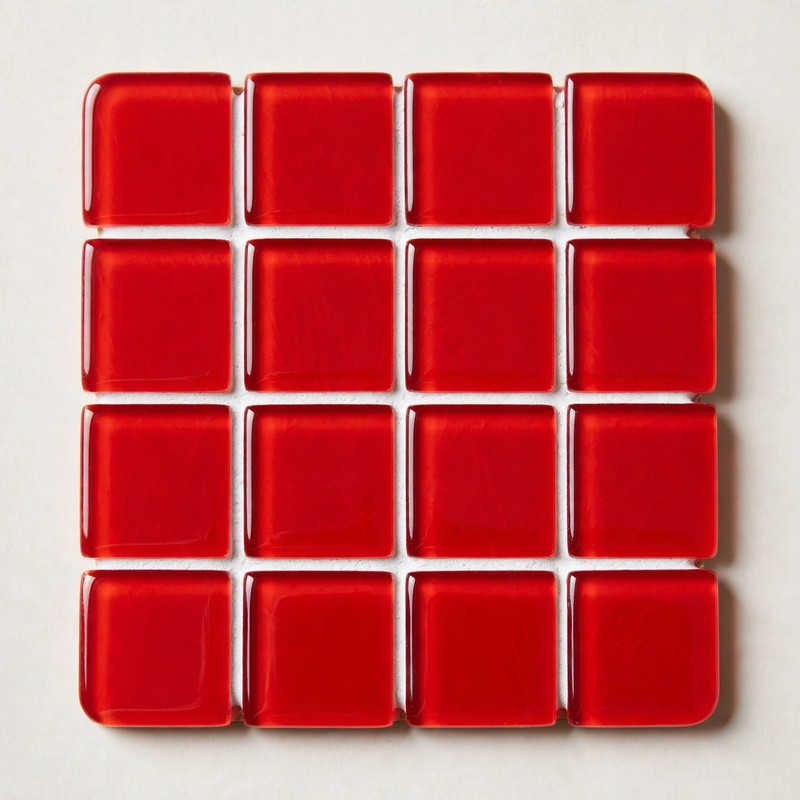
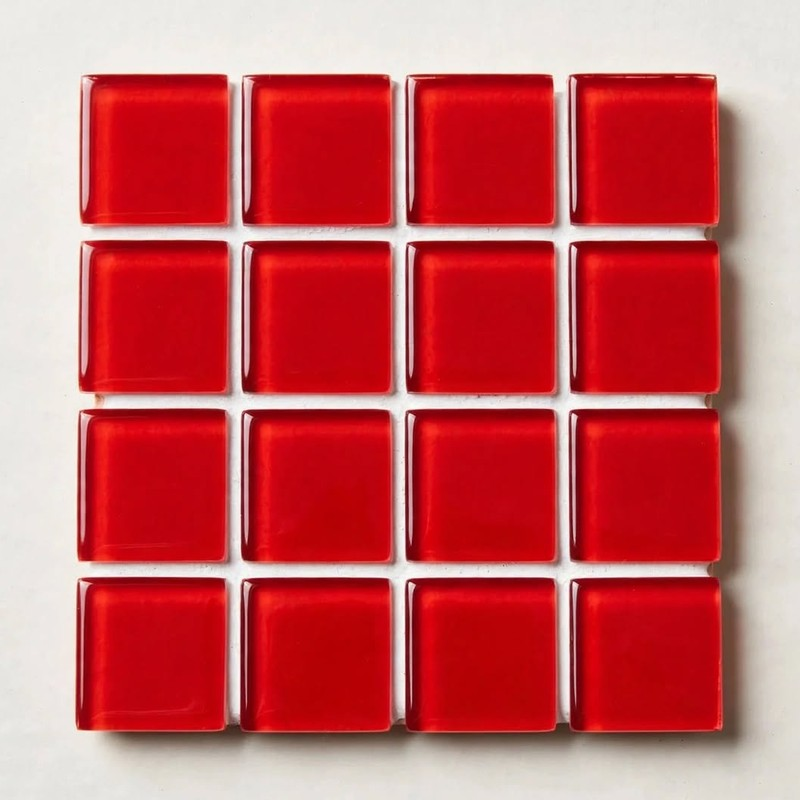
Expand shop to 41 coasters: add Ruby, Auburn and Electric Blue; add shop promo bar
- Add Ruby/Auburn products from existing photos and 12 new Electric Blue/Auburn/Ruby combos
- Replace Solid Ruby photo; remove Powder + Coastal Blue
- Add sticky shop-only promo bar for the automatic discounts

Changed region(s): [[0.0938, 0.0625, 0.9688, 0.9688]]

diff --git a/app/lib/coasters.ts b/app/lib/coasters.ts
@@ -20,7 +20,6 @@ export const READY_MADE: ReadyMadeCoaster[] = [
   { slug: "green-terracotta", name: "Sage + Cinnamon", colors: ["Sage", "Cinnamon"] },
   { slug: "green-white", name: "Sage + Pearl", colors: ["Sage", "Pearl"] },
   { slug: "light-blue-green", name: "Powder + Sage", colors: ["Powder", "Sage"] },
-  { slug: "powder-fountain-blue", name: "Powder + Coastal Blue", colors: ["Powder", "Coastal Blue"] },
   { slug: "moonlight-fountain-blue", name: "Moonlight + Coastal Blue", colors: ["Moonlight", "Coastal Blue"] },
   { slug: "pearl-moonlight", name: "Pearl + Moonlight", colors: ["Pearl", "Moonlight"] },
   { slug: "moonlight-powder", name: "Moonlight + Powder", colors: ["Moonlight", "Powder"] },
@@ -31,12 +30,33 @@ export const READY_MADE: ReadyMadeCoaster[] = [
   { slug: "moonlight-grasshopper", name: "Moonlight + Sage", colors: ["Moonlight", "Sage"] },
   { slug: "pearl-powder", name: "Pearl + Powder", colors: ["Pearl", "Powder"] },
   { slug: "moonlight-brandied-melon", name: "Moonlight + Cinnamon", colors: ["Moonlight", "Cinnamon"] },
+  { slug: "red-white", name: "Pearl + Ruby", colors: ["Pearl", "Ruby"] },
+  { slug: "red-teal", name: "Coastal Blue + Ruby", colors: ["Coastal Blue", "Ruby"] },
+  { slug: "powder-cherry", name: "Powder + Ruby", colors: ["Powder", "Ruby"] },
+  { slug: "sage-red", name: "Sage + Ruby", colors: ["Sage", "Ruby"] },
+  { slug: "auburn-cherry", name: "Auburn + Ruby", colors: ["Auburn", "Ruby"] },
+  { slug: "grasshopper-auburn", name: "Sage + Auburn", colors: ["Sage", "Auburn"] },
+  { slug: "pearl-electric-blue", name: "Pearl + Electric Blue", colors: ["Pearl", "Electric Blue"] },
+  { slug: "moonlight-electric-blue", name: "Moonlight + Electric Blue", colors: ["Moonlight", "Electric Blue"] },
+  { slug: "powder-electric-blue", name: "Powder + Electric Blue", colors: ["Powder", "Electric Blue"] },
+  { slug: "coastal-blue-electric-blue", name: "Coastal Blue + Electric Blue", colors: ["Coastal Blue", "Electric Blue"] },
+  { slug: "sage-electric-blue", name: "Sage + Electric Blue", colors: ["Sage", "Electric Blue"] },
+  { slug: "cinnamon-electric-blue", name: "Cinnamon + Electric Blue", colors: ["Cinnamon", "Electric Blue"] },
+  { slug: "auburn-electric-blue", name: "Auburn + Electric Blue", colors: ["Auburn", "Electric Blue"] },
+  { slug: "ruby-electric-blue", name: "Ruby + Electric Blue", colors: ["Ruby", "Electric Blue"] },
+  { slug: "moonlight-auburn", name: "Moonlight + Auburn", colors: ["Moonlight", "Auburn"] },
+  { slug: "moonlight-ruby", name: "Moonlight + Ruby", colors: ["Moonlight", "Ruby"] },
+  { slug: "powder-auburn", name: "Powder + Auburn", colors: ["Powder", "Auburn"] },
+  { slug: "coastal-blue-auburn", name: "Coastal Blue + Auburn", colors: ["Coastal Blue", "Auburn"] },
   { slug: "solid-moonlight", name: "Solid Moonlight", colors: ["Moonlight"] },
   { slug: "solid-grasshopper", name: "Solid Sage", colors: ["Sage"] },
   { slug: "solid-fountain-blue", name: "Solid Coastal Blue", colors: ["Coastal Blue"] },
   { slug: "solid-brandied-melon", name: "Solid Cinnamon", colors: ["Cinnamon"] },
   { slug: "solid-powder", name: "Solid Powder", colors: ["Powder"] },
   { slug: "solid-pearl", name: "Solid Pearl", colors: ["Pearl"] },
+  { slug: "solid-cherry", name: "Solid Ruby", colors: ["Ruby"] },
+  { slug: "solid-auburn", name: "Solid Auburn", colors: ["Auburn"] },
+  { slug: "solid-electric-blue", name: "Solid Electric Blue", colors: ["Electric Blue"] },
 ];
 
 export const readyMadeBySlug = (slug: string) =>
@@ -61,6 +81,8 @@ const SWATCH_ORDER = [
   "Electric Blue",
   "Sage",
   "Cinnamon",
+  "Auburn",
+  "Ruby",
 ];
 
 /** Every color that appears in the collection, with how many coasters use it. */

diff --git a/app/components/PromoBar.tsx b/app/components/PromoBar.tsx
@@ -1,0 +1,54 @@
+"use client";
+
+import Link from "next/link";
+import { usePathname } from "next/navigation";
+import { FREE_EVERY_NTH, SMALL_ORDER_MAX_QTY, SMALL_ORDER_PERCENT_OFF } from "../lib/shop";
+
+const DISPLAY = {
+  fontFamily: "var(--font-fraunces), serif",
+  fontWeight: 800,
+  letterSpacing: "-0.01em",
+} as const;
+
+/**
+ * Slim sticky bar on the shop pages (/shop and every product page) announcing
+ * the automatic discounts. The numbers come from lib/shop.ts, the same constants
+ * /api/checkout uses, so the message always matches what Stripe charges.
+ */
+export default function PromoBar() {
+  const pathname = usePathname();
+  const inShop = pathname === "/shop" || pathname.startsWith("/shop/");
+  if (!inShop) return null;
+
+  const smallRange = SMALL_ORDER_MAX_QTY > 1 ? `1–${SMALL_ORDER_MAX_QTY}` : "1";
+
+  return (
+    <div
+      role="region"
+      aria-label="Current offers"
+      className="sticky top-0 z-30 bg-[#b15356] text-[#f9f8f0]"
+      style={{ fontFamily: "var(--font-dm-sans), sans-serif" }}
+    >
+      <Link
+        href="/shop"
+        className="mx-auto flex min-h-9 max-w-5xl flex-wrap items-center justify-center gap-x-3 px-4 py-1.5 text-center leading-tight"
+      >
+        <span className="text-[15px] sm:text-base" style={DISPLAY}>
+          {SMALL_ORDER_PERCENT_OFF}% off{" "}
+          <span className="text-[12px] font-bold uppercase tracking-[0.12em]" style={{ fontFamily: "inherit" }}>
+            {smallRange} coasters
+          </span>
+        </span>
+        <span aria-hidden="true" className="text-[#ddcd71]">
+          &#9670;
+        </span>
+        <span className="text-[15px] sm:text-base" style={DISPLAY}>
+          Buy {FREE_EVERY_NTH - 1}, get 1 free
+        </span>
+        <span className="hidden text-[11px] font-bold uppercase tracking-[0.12em] text-[#f9f8f0]/80 md:inline">
+          Applied at checkout
+        </span>
+      </Link>
+    </div>
+  );
+}

diff --git a/app/layout.tsx b/app/layout.tsx
@@ -2,6 +2,7 @@ import type { Metadata } from "next";
 import { Cormorant_Garamond, DM_Sans, Fraunces, Inter, Marcellus, Yellowtail } from "next/font/google";
 import "./globals.css";
 import SiteFooter from "./components/SiteFooter";
+import PromoBar from "./components/PromoBar";
 import { SITE_NAME, SITE_URL } from "./lib/site";
 
 const fraunces = Fraunces({
@@ -68,6 +69,7 @@ export default function RootLayout({ children }: LayoutProps<"/">) {
       className={`${fraunces.variable} ${inter.variable} ${dmSans.variable} ${marcellus.variable} ${cormorant.variable} ${yellowtail.variable} h-full antialiased`}
     >
       <body className="min-h-full flex flex-col font-sans bg-plaster text-ink">
+        <PromoBar />
         {children}
         <SiteFooter />
       </body>
